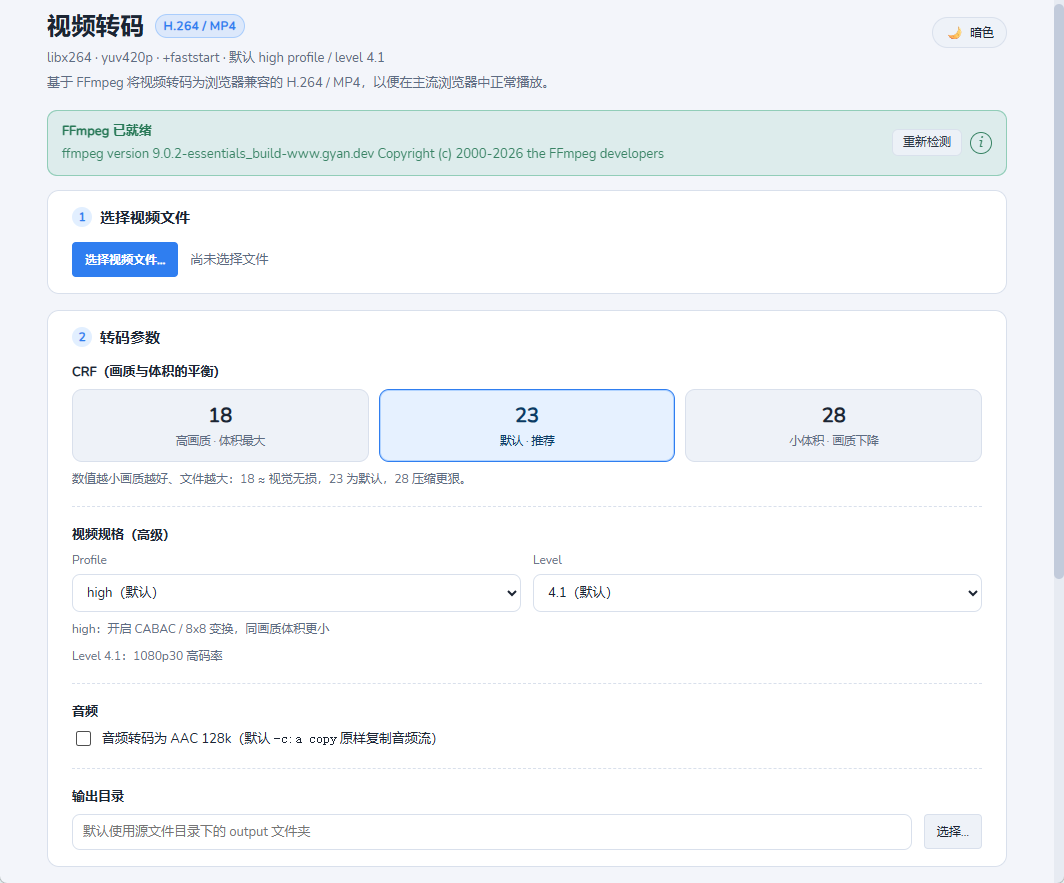
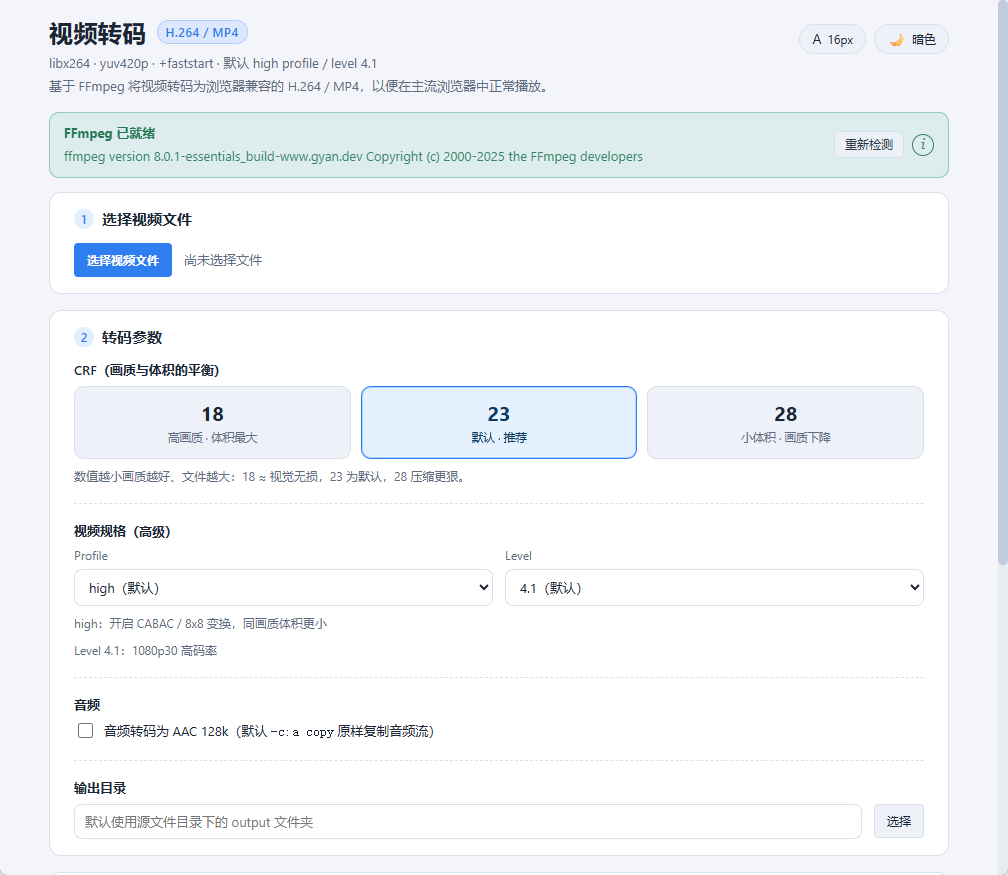
docs: README&LICENSE

diff --git a/README.md b/README.md
@@ -1,4 +1,10 @@
-# 视频转码（ff-transcode）
+<p align="center">
+  <img alt="logo" src="build/appicon.png" width="200">
+</p>
+
+<h1 align="center">
+视频转码（ff-transcode）
+</h1>
 
 用 Wails v2 + Go 做界面调用 FFmpeg 的转码工具：选择视频文件 → 显示原始编码信息 → 选择 CRF（以及
 Profile / Level）→ 转码为浏览器兼容的 H.264 / MP4（默认 `high` profile、`level 4.1`、`yuv420p`、
@@ -120,3 +126,26 @@ wails build   # 产物：build/bin/xxx.exe
 go test ./...        # 需要 PATH 上有 ffmpeg/ffprobe，缺省时自动跳过
 go test -short ./... # 只跑不依赖 ffmpeg 的用例
 ```
+
+## License
+
+本项目自身的源代码采用 **MIT License**，详见 [LICENSE.md](LICENSE.md)
+（Copyright (c) 2026 - present GHLandy）。软件按「原样」提供（AS IS），不含任何明示或
+暗示的担保。
+
+### 第三方组件：FFmpeg
+
+本项目**不随附** FFmpeg / FFprobe 二进制，也不提供自动下载；仅在运行时以独立进程方式
+调用用户自行准备的 `ffmpeg` / `ffprobe`（查找优先级见「环境要求」）。这种进程调用不构成
+与 FFmpeg 的衍生作品关系，因此本项目自身得以保持 MIT 授权，无需改用 GPL。
+
+FFmpeg 的许可证取决于用户自行下载的构建版本，与本项目无关：
+
+- FFmpeg 常见 Windows 构建（如 [gyan.dev](https://www.gyan.dev/ffmpeg/builds/) 的
+  `essentials_build` / `full_build`）因启用 `libx264` 等组件，通常为 **GPLv3**；
+  本项目默认使用 `libx264`，故请下载包含 `libx264` 的构建（GPL 版本）。
+- 若改用 LGPL 构建（不含 libx264），则需相应更换编码器（如 `libopenh264`），
+  编码质量与参数与 `libx264` 并不等同。
+- FFmpeg 许可证说明：<https://ffmpeg.org/legal.html>　源码：<https://github.com/FFmpeg/FFmpeg>
+
+使用本工具时，请自行遵守所用 FFmpeg 构建的许可证要求，并遵守当地法律法规。

diff --git a/LICENSE.md b/LICENSE.md
@@ -1,0 +1,21 @@
+MIT License
+
+Copyright (c) 2026 - present GHLandy
+
+Permission is hereby granted, free of charge, to any person obtaining a copy
+of this software and associated documentation files (the "Software"), to deal
+in the Software without restriction, including without limitation the rights
+to use, copy, modify, merge, publish, distribute, sublicense, and/or sell
+copies of the Software, and to permit persons to whom the Software is
+furnished to do so, subject to the following conditions:
+
+The above copyright notice and this permission notice shall be included in all
+copies or substantial portions of the Software.
+
+THE SOFTWARE IS PROVIDED "AS IS", WITHOUT WARRANTY OF ANY KIND, EXPRESS OR
+IMPLIED, INCLUDING BUT NOT LIMITED TO THE WARRANTIES OF MERCHANTABILITY,
+FITNESS FOR A PARTICULAR PURPOSE AND NONINFRINGEMENT. IN NO EVENT SHALL THE
+AUTHORS OR COPYRIGHT HOLDERS BE LIABLE FOR ANY CLAIM, DAMAGES OR OTHER
+LIABILITY, WHETHER IN AN ACTION OF CONTRACT, TORT OR OTHERWISE, ARISING FROM,
+OUT OF OR IN CONNECTION WITH THE SOFTWARE OR THE USE OR OTHER DEALINGS IN THE
+SOFTWARE.
